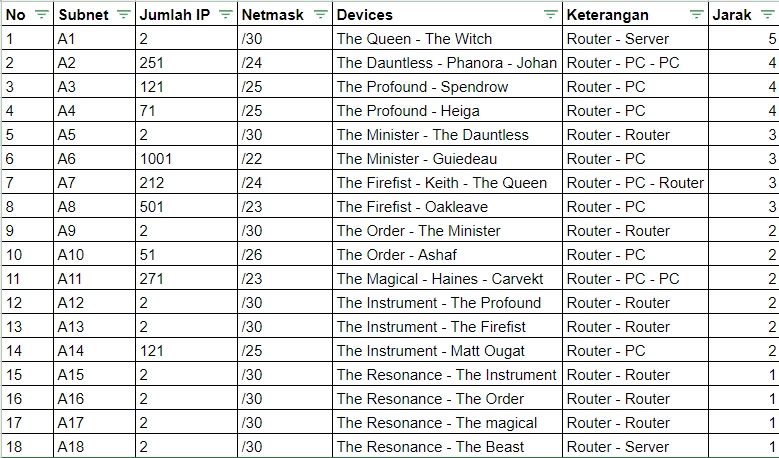
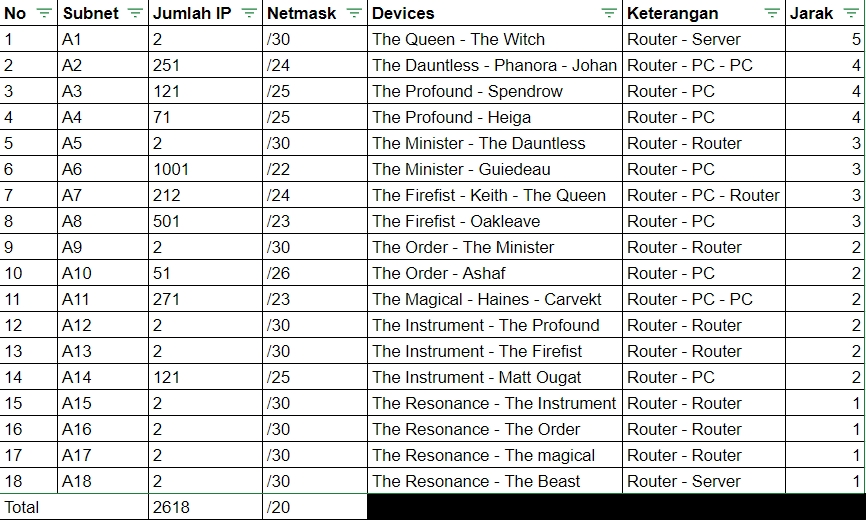
fixed tabel label

diff --git a/README.md b/README.md
@@ -64,6 +64,15 @@ Berikut tabel yang tabel subnet / label :
 <img src="images/tabel_label.jpg">
 <br>
 
+Setelah selesai, didapatkan bahwa kita membutuhkan 2618 IP Addresses, sehingga NID root adalah
+
+```
+Network ID        : 10.31.0.0/20
+Netmask           : 255.255.240.0
+Broadcast Address : 10.31.15.255
+Hosts             : 4094
+```
+
 #### Topologi dengan label
 
 Berikut Topologi dengan label / subnet yang ditandai
